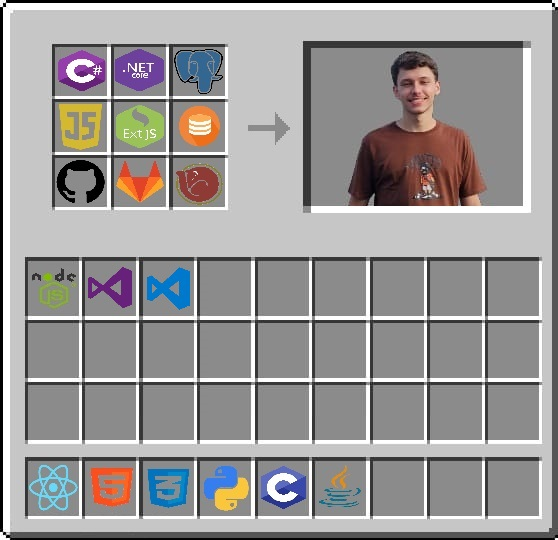
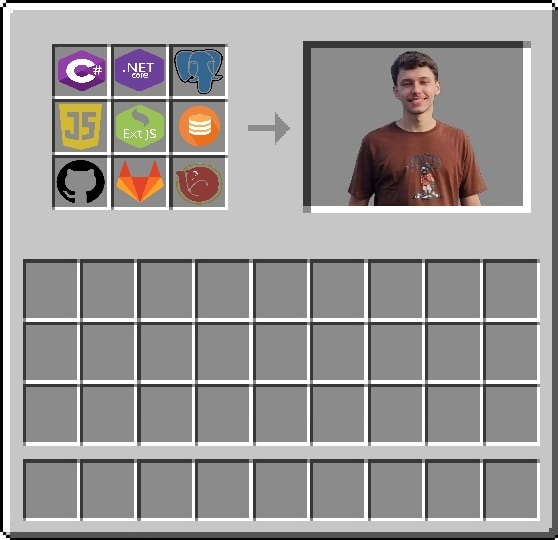
mudar imagem fixa da crafting table para um background com os ícones clicáveis e com hover

Changed region(s): [[0.0305, 0.4741, 0.9749, 0.9778]]

diff --git a/portfolioadrianoreidel/src/App.js b/portfolioadrianoreidel/src/App.js
@@ -42,6 +42,99 @@ function App() {
     return () => window.removeEventListener('resize', handleResize);
   }, []);
 
+  const tecnologias = [
+    { 
+      nome: "CSharp", 
+      icone: images.csharp, 
+      link: "https://dotnet.microsoft.com/pt-br/languages/csharp" 
+    },
+    { 
+      nome: "dotNetCore", 
+      icone: images.dotNetCore, 
+      link: "https://dotnet.microsoft.com/pt-br/apps/aspnet" 
+    },
+    { 
+      nome: "Postgre", 
+      icone: images.postgre, 
+      link: "https://www.postgresql.org/" 
+    },
+    { 
+      nome: "JavaScript", 
+      icone: images.javascript, 
+      link: "https://www.javascript.com/" 
+    },
+    { 
+      nome: "ExtJs", 
+      icone: images.extjs, 
+      link: "https://www.sencha.com/products/extjs/" 
+    },
+    { 
+      nome: "Sybase", 
+      icone: images.sybase, 
+      link: "https://www.sap.com/brazil/products/technology-platform/sql-anywhere.html" 
+    },
+    { 
+      nome: "GitHub", 
+      icone: images.git, 
+      link: "https://github.com/" 
+    },
+    { 
+      nome: "GitLab", 
+      icone: images.gitlab, 
+      link: "https://gitlab.com/gitlab-com" 
+    },
+    { 
+      nome: "NHibernate", 
+      icone: images.nhibernate, 
+      link: "https://nhibernate.info/" 
+    },
+    { 
+      nome: "Node.js", 
+      icone: images.nodejs, 
+      link: "https://nodejs.org" 
+    },
+    { 
+      nome: "Visual Studio",
+      icone: images.vs,          
+      link: "https://visualstudio.microsoft.com" 
+    },
+    { 
+      nome: "VS Code",      
+      icone: images.vscode,      
+      link: "https://code.visualstudio.com" 
+    },
+    { 
+      nome: "ReactJs.js", 
+      icone: images.nodejs, 
+      link: "https://react.dev/" 
+    },
+    { 
+      nome: "HTML", 
+      icone: images.htmlicon, 
+      link: "https://developer.mozilla.org/pt-BR/docs/Web/HTML" 
+    },
+    { 
+      nome: "CSS", 
+      icone: images.cssicon, 
+      link: "https://developer.mozilla.org/pt-BR/docs/Web/CSS" 
+    },
+    { 
+      nome: "Python", 
+      icone: images.python, 
+      link: "https://www.python.org/" 
+    },
+    { 
+      nome: "C", 
+      icone: images.c, 
+      link: "https://devdocs.io/c/" 
+    },
+    { 
+      nome: "Java", 
+      icone: images.java, 
+      link: "https://www.java.com/pt-BR/" 
+    },
+  ];
+
   return (
     <div className="App">
       <img
@@ -50,19 +143,28 @@ function App() {
         className="portfolio-image-nome"
       />
       <img
-        src={images.jrfullstacksoftwaredeveloper}
+        src={images.fullstacksoftwaredeveloper}
         alt="JR Full Stack Software Developer"
         className="portfolio-image-cargo"
       />
       {isMobile ? (
           <>
-          
             <div className="image-row">
-              <img
-                src={images.craftingtable}
-                alt="craftingtablefundo"
-                className="portfolio-image-crafting"
-              />
+              <div className="craftingtable-container">
+                <div className="button-grid">
+                  {tecnologias.slice(0, 9).map((tec, index) => (
+                    <button 
+                      key={index} 
+                      onClick={() => window.open(tec.link, '_blank', 'noreferrer')}
+                    >
+                      <img 
+                        src={tec.icone} 
+                        alt={tec.nome} 
+                      />
+                    </button>
+                  ))}
+                </div>
+              </div>
             </div>
             <div className="buttons-mobile">
             <button className="button-links"
@@ -211,12 +313,22 @@ function App() {
         ) : (
           <>
             <div className="image-row">
-              <img
-                src={images.craftingtable}
-                alt="craftingtablefundo"
-                className="portfolio-image-crafting"
-              />
-
+              <div className="craftingtable-container">
+                <div className="button-grid">
+                  {tecnologias.slice(0, 9).map((tec, index) => (
+                    <button
+                      key={index}
+                      onClick={() => window.open(tec.link, '_blank', 'noreferrer')}
+                      title={tec.nome}
+                    >
+                      <img 
+                        src={tec.icone} 
+                        alt={tec.nome} 
+                      />
+                    </button>
+                  ))}
+                </div>
+              </div>
               <div className="button-column">
               <button className="button-options"
                 style={{

diff --git a/portfolioadrianoreidel/src/App.css b/portfolioadrianoreidel/src/App.css
@@ -32,10 +32,41 @@
   align-items: center
 }
 
-.portfolio-image-crafting {
-  width: 45vh;
+.craftingtable-container {
+  width: 47vh;
   height: auto;
   display: flex;
+  min-height: 45vh;  
+  background-image: url("./crafting-limpa.jpeg");
+  background-size: cover; 
+  background-position: center;
+  background-repeat: no-repeat;
+  position: relative;
+}
+
+.button-grid {
+  position: absolute;
+  top: 4.1vh;
+  left: 5.1vh;
+  display: grid;
+  grid-template-columns: repeat(3, auto);
+  grid-gap: 1.4vh;
+}
+
+.button-grid button {
+  background: none; 
+  border: none;
+  outline: none;
+  padding: 0;
+  margin: 0;
+  cursor: pointer;
+  width: 5h;
+}
+
+.button-grid button img {
+  width: 3.5vh;   /* ou o valor que preferir */
+  height: auto; /* mantém a proporção vertical */
+  display: block; 
 }
 
 .portfolio-image-livro {
@@ -93,10 +124,41 @@
     height: auto;
   }
 
-  .portfolio-image-crafting {
+  .craftingtable-container {
     width: 70vh;
     height: auto;
     display: flex;
+    min-height: 68vh;  
+    background-image: url("./crafting-limpa.jpeg");
+    background-size: cover; 
+    background-position: center;
+    background-repeat: no-repeat;
+    position: relative;
+  }
+  
+  .button-grid {
+    position: absolute;
+    top: 6.5vh;
+    left: 7.6vh;
+    display: grid;
+    grid-template-columns: repeat(3, auto);
+    grid-gap: 2.2vh;
+  }
+  
+  .button-grid button {
+    background: none; 
+    border: none;
+    outline: none;
+    padding: 0;
+    margin: 0;
+    cursor: pointer;
+    width: 5h;
+  }
+
+  .button-grid button img {
+    width: 5vh;   /* ou o valor que preferir */
+    height: auto; /* mantém a proporção vertical */
+    display: block; 
   }
   
   .portfolio-image-livro {

diff --git a/portfolioadrianoreidel/src/images.js b/portfolioadrianoreidel/src/images.js
@@ -1,7 +1,7 @@
 const images = {
     adrianoreidel: require('./adrianojosemazurekreidel.png'),
-    jrfullstacksoftwaredeveloper: require('./jrfullstacksoftwaredeveloper.png'),
-    craftingtable: require('./craftingtable.jpeg'),
+    fullstacksoftwaredeveloper: require('./fullstacksoftwaredeveloper.png'),
+    craftingtable: require('./crafting-limpa.jpeg'),
     livrobranco: require('./livrobranco.png'),
     sobre: require('./sobre.png'),
     sobre2: require('./sobre2.png'),
@@ -22,6 +22,24 @@ const images = {
     linkedin: require('./linkedin.png'),
     github: require('./github.png'),
     email: require('./email.png'),
+    csharp: require('./csharp.jpeg'),
+    dotNetCore: require('./dotnetcore.jpeg'),
+    postgre: require('./postgre.jpeg'),
+    javascript: require('./javascript.jpeg'),
+    extjs: require('./extjs.jpeg'),
+    sybase: require('./sybase.jpeg'),
+    git: require('./git.jpeg'),
+    gitlab: require('./gitlab.jpeg'),
+    nhibernate: require('./nhibernate.jpeg'),
+    nodejs: require('./node.jpeg'),
+    vs: require('./vs.jpeg'),
+    vscode: require('./vscode.jpeg'),
+    react: require('./react.jpeg'),
+    htmlicon: require('./htmlicon.jpeg'),
+    cssicon: require('./cssicon.jpeg'),
+    python: require('./python.jpeg'),
+    c: require('./c.jpeg'),
+    java: require('./java.jpeg'),
   };
   
   export default images;
